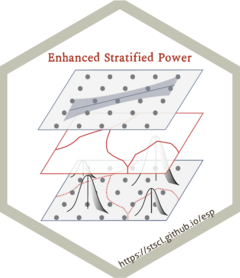
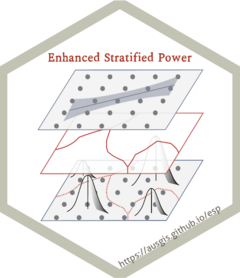
deploy: b86c570f670684b573ceeca55d6ef1c303f9410e

Changed region(s): [[0.4958, 0.7482, 0.9333, 0.9784]]

diff --git a/projects/esp/index.html b/projects/esp/index.html
@@ -179,11 +179,11 @@
 <h3 id="goal">goal</h3>
 <p><em>Assessing the spatial association between variables through an equivalent geographical detector q-statistic within a regression framework.</em></p>
 <h3 id="document">document</h3>
-<p>You can see the document of <strong>esp</strong> in <a href="https://stscl.github.io/esp/">here</a></p>
+<p>You can see the document of <strong>esp</strong> in <a href="https://ausgis.github.io/esp/">here</a></p>
 <h3 id="source-code">source code</h3>
-<p>The source code of <strong>esp</strong> is in <a href="https://github.com/stscl/esp/">here</a></p>
+<p>The source code of <strong>esp</strong> is in <a href="https://github.com/ausgis/esp/">here</a></p>
 <h3 id="feedback">feedback</h3>
-<p>If you have any questions or suggestions, please post them in <a href="https://github.com/stscl/esp/issues">esp github repo issue</a>.</p>
+<p>If you have any questions or suggestions, please post them in <a href="https://github.com/ausgis/esp/issues">esp github repo issue</a>.</p>
 
     </div>
 </div>
